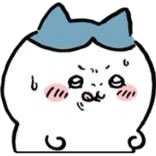
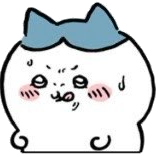
v.2.0.1
- Added Player Character Facing

diff --git a/lib/main.dart b/lib/main.dart
@@ -390,6 +390,10 @@ class Player extends SpriteComponent with HasGameRef<MyPlatformGame> {
 
   @override
   void render(Canvas canvas) {
+    if (facing == 1.0) {
+      canvas.translate(size.x, 0); // Move origin to the right edge
+      canvas.scale(-1, 1); // Flip horizontally
+    }
     super.render(canvas);
     final paint = Paint()..color = Colors.red;
     // canvas.drawRect(size.toRect(), paint);
